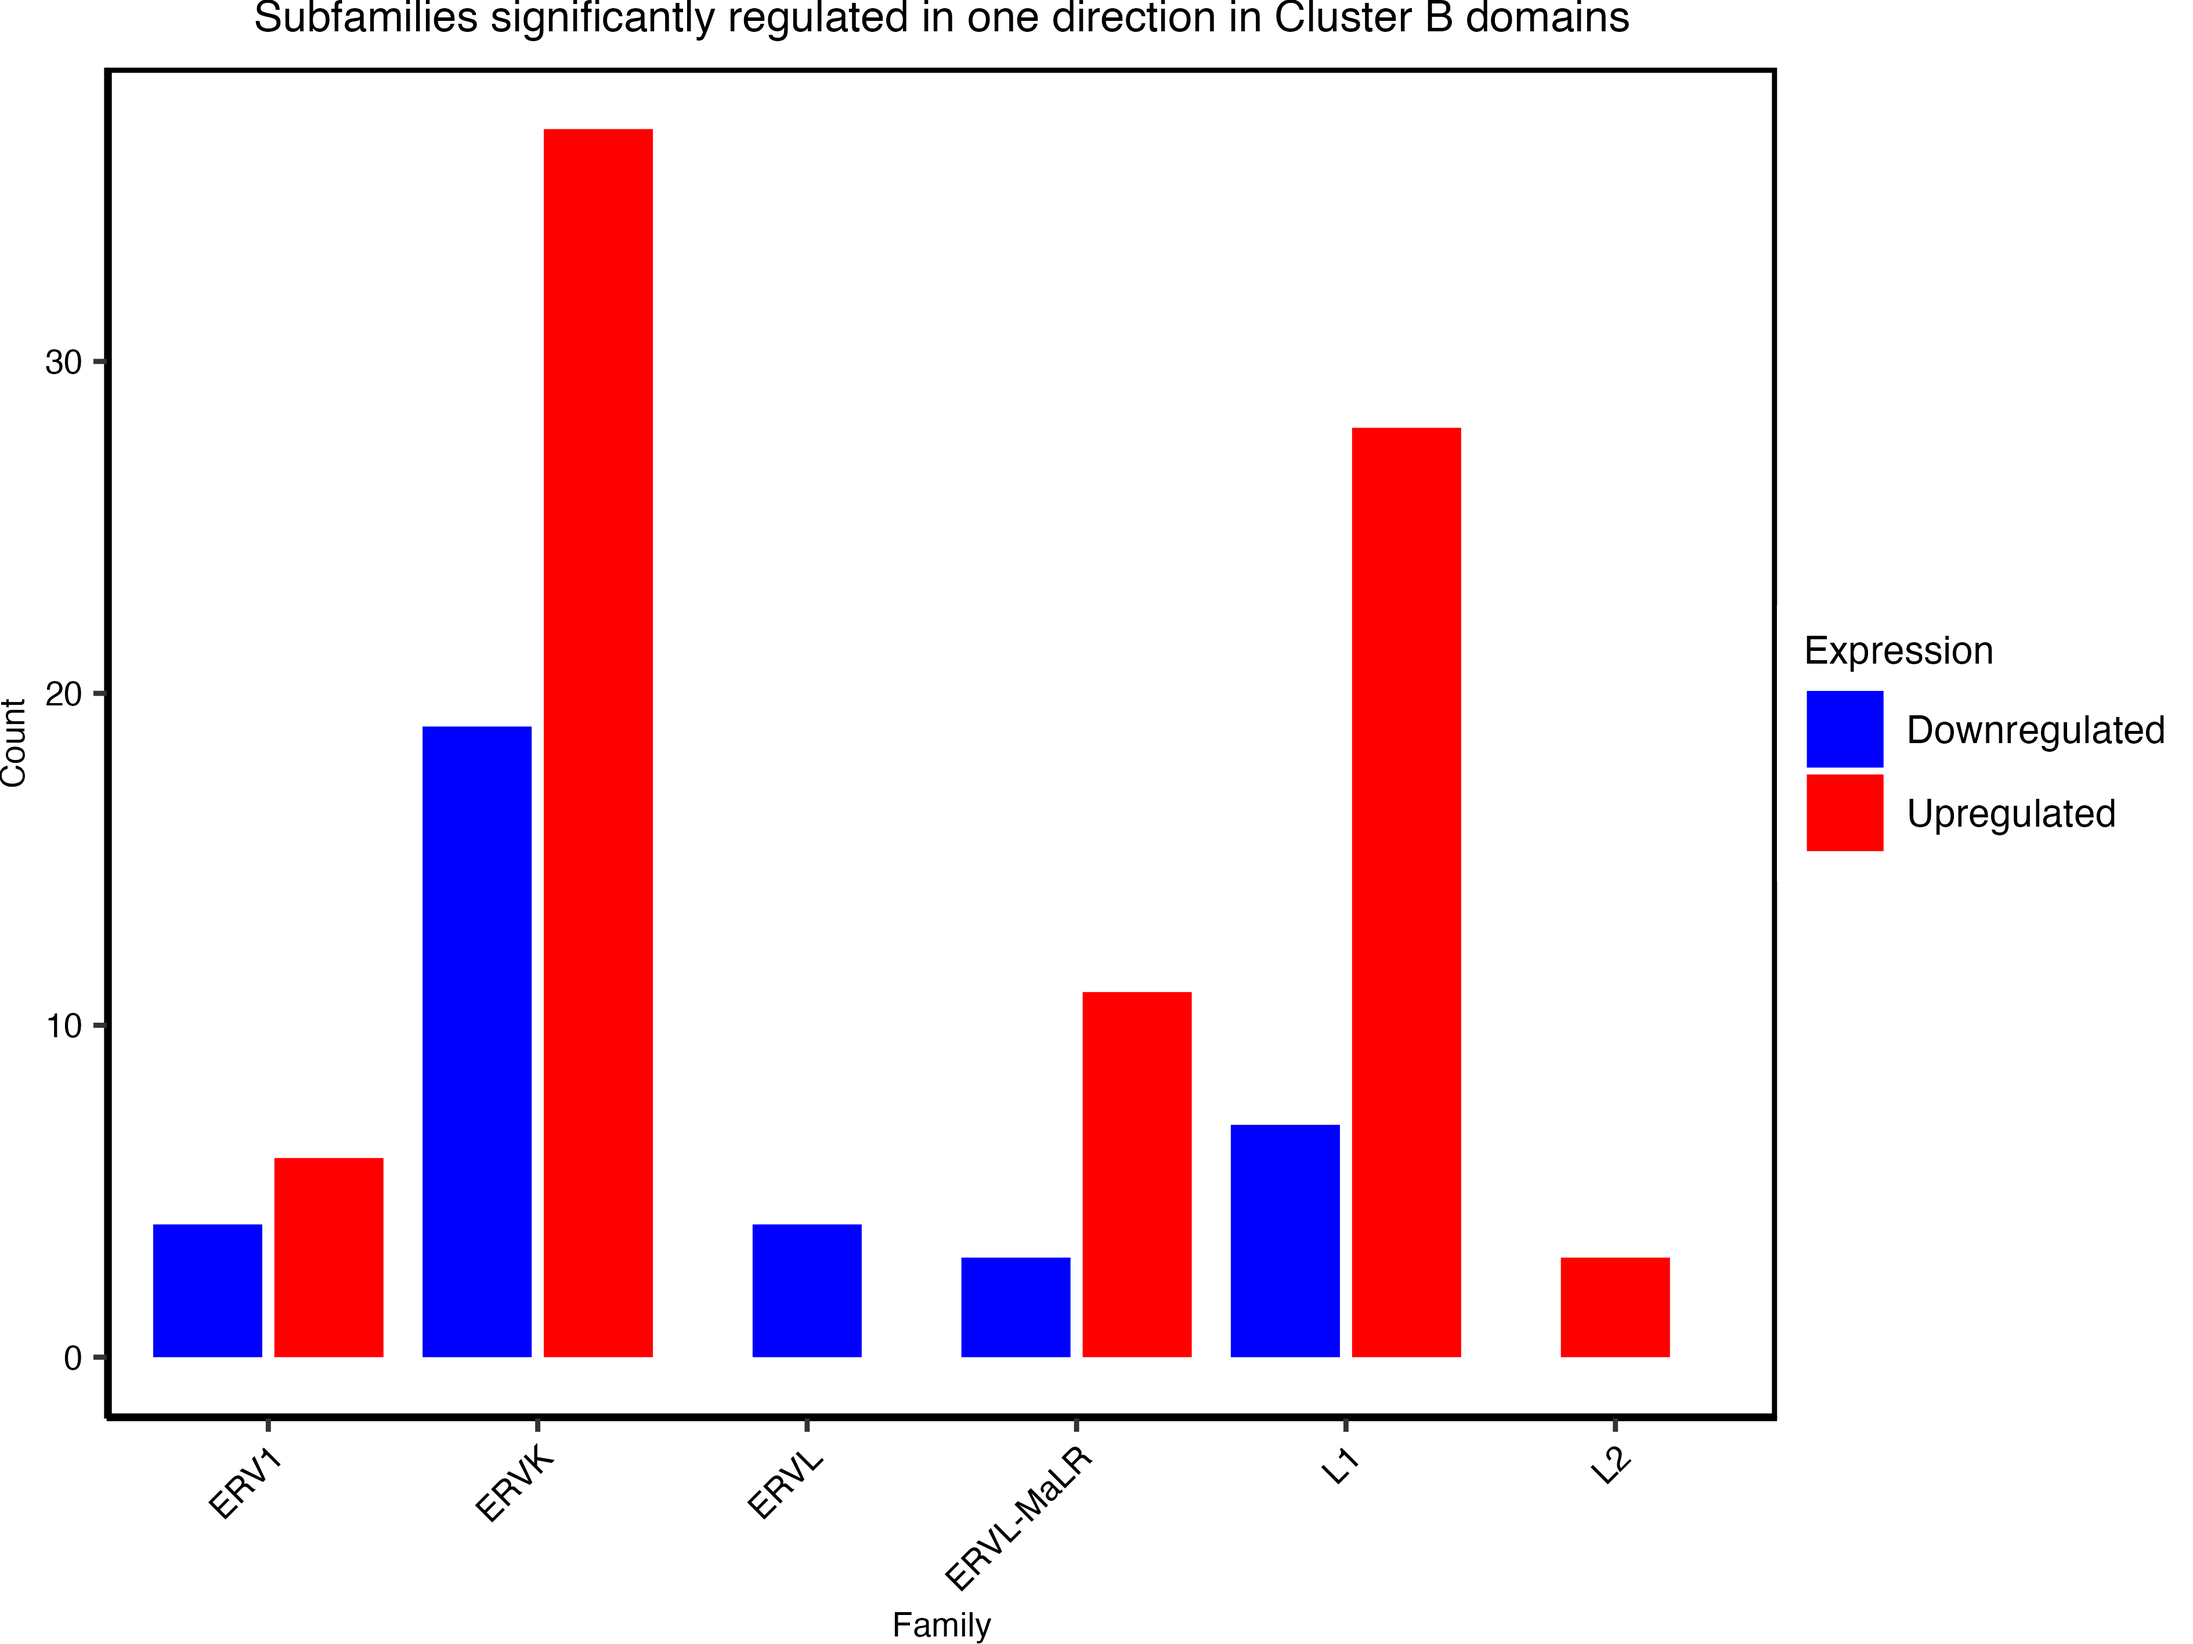
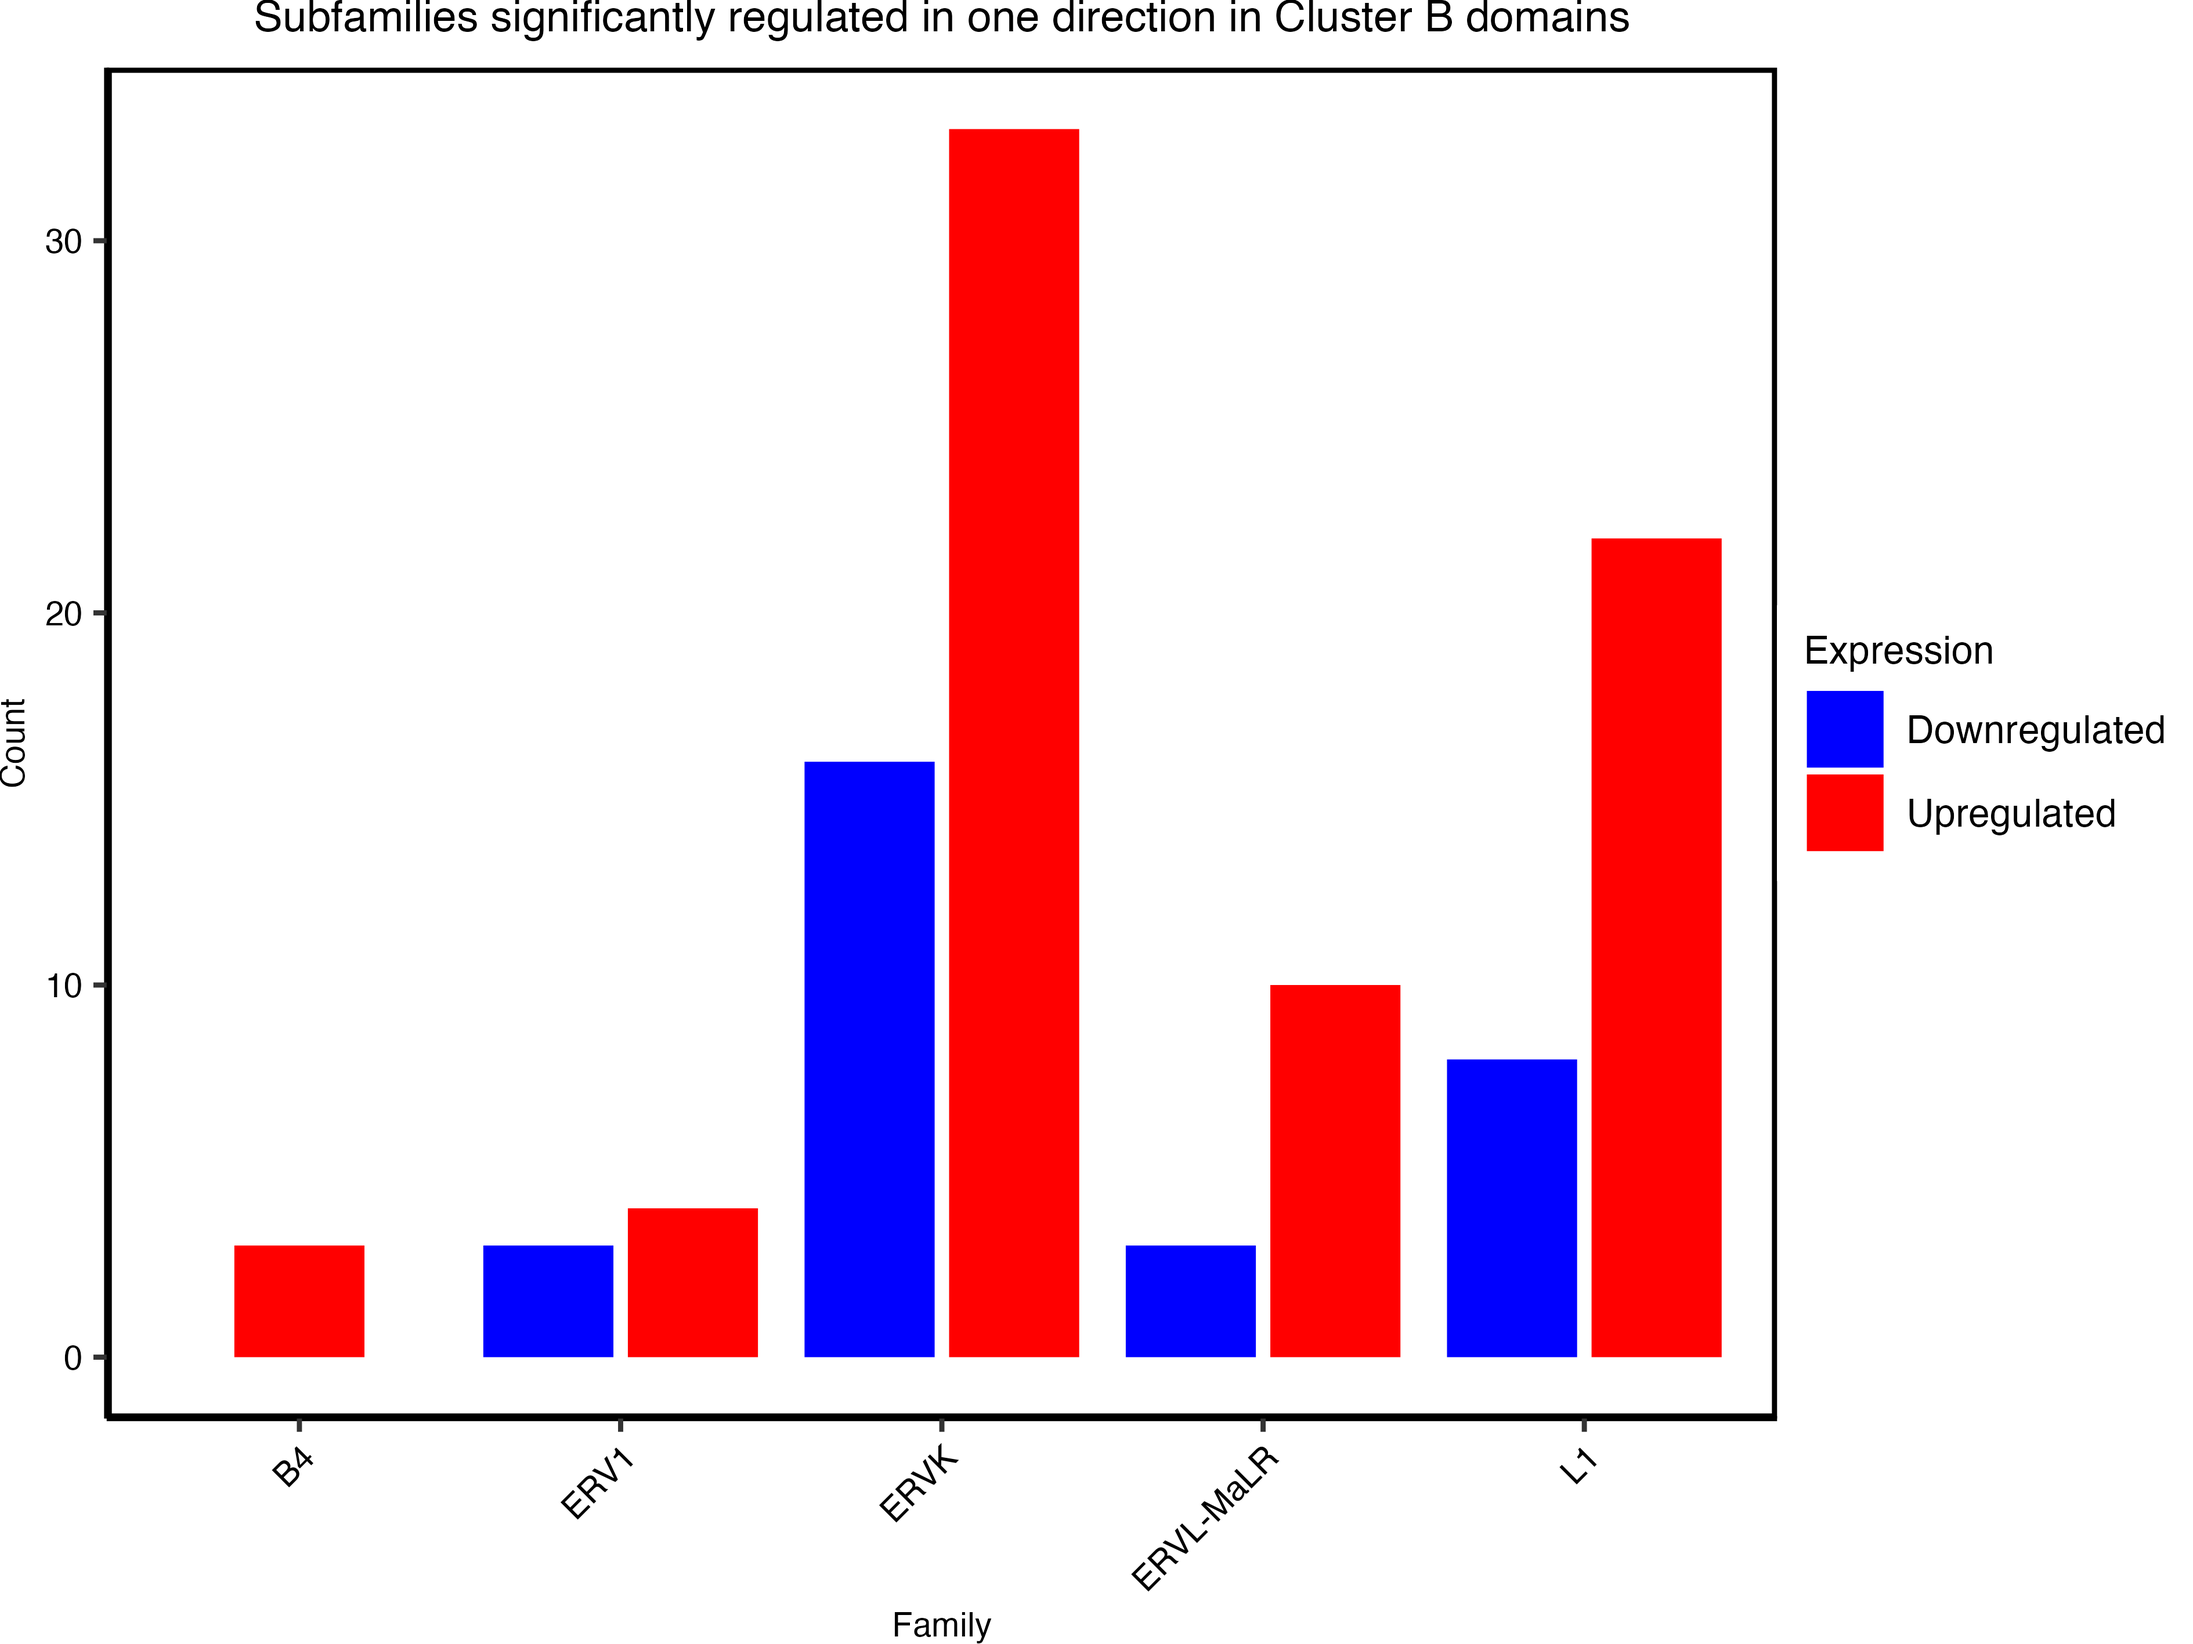
updated TE expression analyses with more stringent filtering (filtered RefSeq transcripts)

diff --git a/docs/TE_analysis.html b/docs/TE_analysis.html
@@ -364,15 +364,17 @@ Exclusive subfamilies are filtered by at least 3 members of the
 subfamily having signifcant fold change in the positive or negative
 direction
 </li>
+<li>
+Significantly regulated subfamilies were filtered using abs(log2FC) &gt;
+1 and padj &lt; 0.05.
+</li>
 </ul>
 <b> Notable genome-wide observations </b>
 <ul>
 <li>
-More TE subfamilies within the family <b>ERV1 and ERVK</b> tend to be
-upregulated than downregulated genome-wide regardless of whether they
-are found in cluster A or cluster B regions. On the other hand, more TE
-subfamilies within the family of <b>ERVL</b> tend to be downregulated
-than upregulated genome-wide.
+More TE subfamilies within the family <b>ERVK</b> tend to be upregulated
+than downregulated genome-wide regardless of whether they are found in
+cluster A or cluster B regions.
 </li>
 </ul>
 <div id="te-subfamilies-within-clusb" class="section level2 tabset">
@@ -381,7 +383,7 @@ than upregulated genome-wide.
 <li>
 About 2 fold more TE subfamilies become upregulated in cluster B regions
 following TKO. Exclusively in these cluster B domains, more TE
-subfamilies in <b> ERVL-MaLR, L1 and L2 </b> become significantly
+subfamilies in <b> ERVL-MaLR and L1 </b> become significantly
 upregulated than downregulated.
 </li>
 </ul>
@@ -400,12 +402,7 @@ upregulated than downregulated.
 <li>
 A similar number of TE subfamilies become up- and downregulated in
 cluster A regions. Exclusively within cluster A regions, however, TE
-families of <b> ERVL-MaLR, hAT-Charlie, and L1 </b> become
-downregulated.
-</li>
-<li>
-Significantly regulated subfamilies were filtered using abs(log2FC) &gt;
-1 and padj &lt; 0.05.
+families of <b> ERVL-MaLR and L1 </b> become downregulated.
 </li>
 </ul>
 <div id="volcano-1" class="section level3 tabset">
@@ -416,7 +413,7 @@ Significantly regulated subfamilies were filtered using abs(log2FC) &gt;
 </div>
 <div id="abslog2fc-1" class="section level4">
 <h4>abs(log2FC) &gt; 1</h4>
-<p><img src="pushed_images/Analyzing_K9me3_loss/TE_expression/outside_clusB/volcano/TE_subfamily/logFC_1/volcano_cutoff_logFC_0.TE_expression.TEs_outside_clusB.NSD_unedit_TKO.png" width="100%" /></p>
+<p><img src="pushed_images/Analyzing_K9me3_loss/TE_expression/outside_clusB/volcano/TE_subfamily/logFC_1/volcano_cutoff_logFC_1.TE_expression.TEs_outside_clusB.NSD_unedit_TKO.png" width="100%" /></p>
 </div>
 </div>
 <div id="te-subfamily-counts-1" class="section level3">
